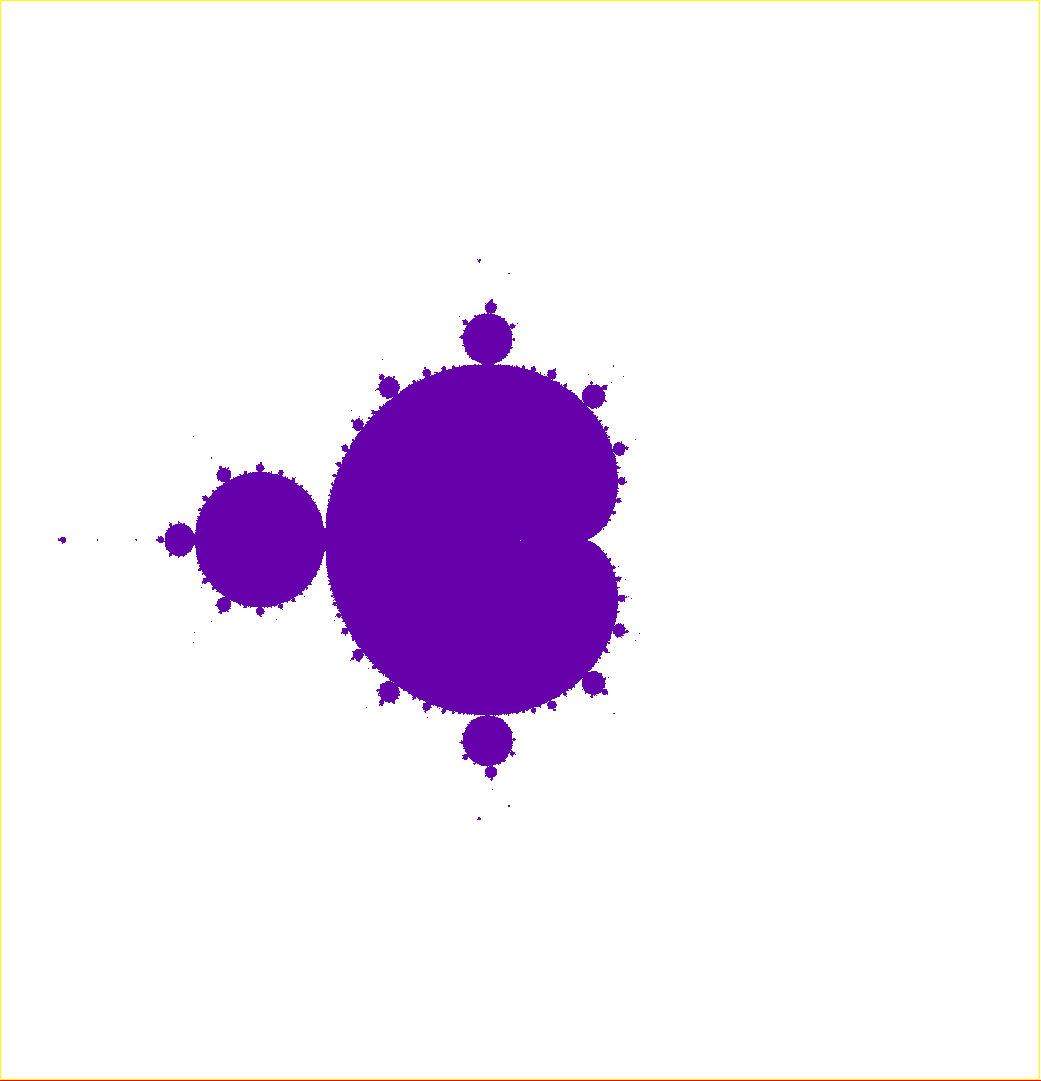
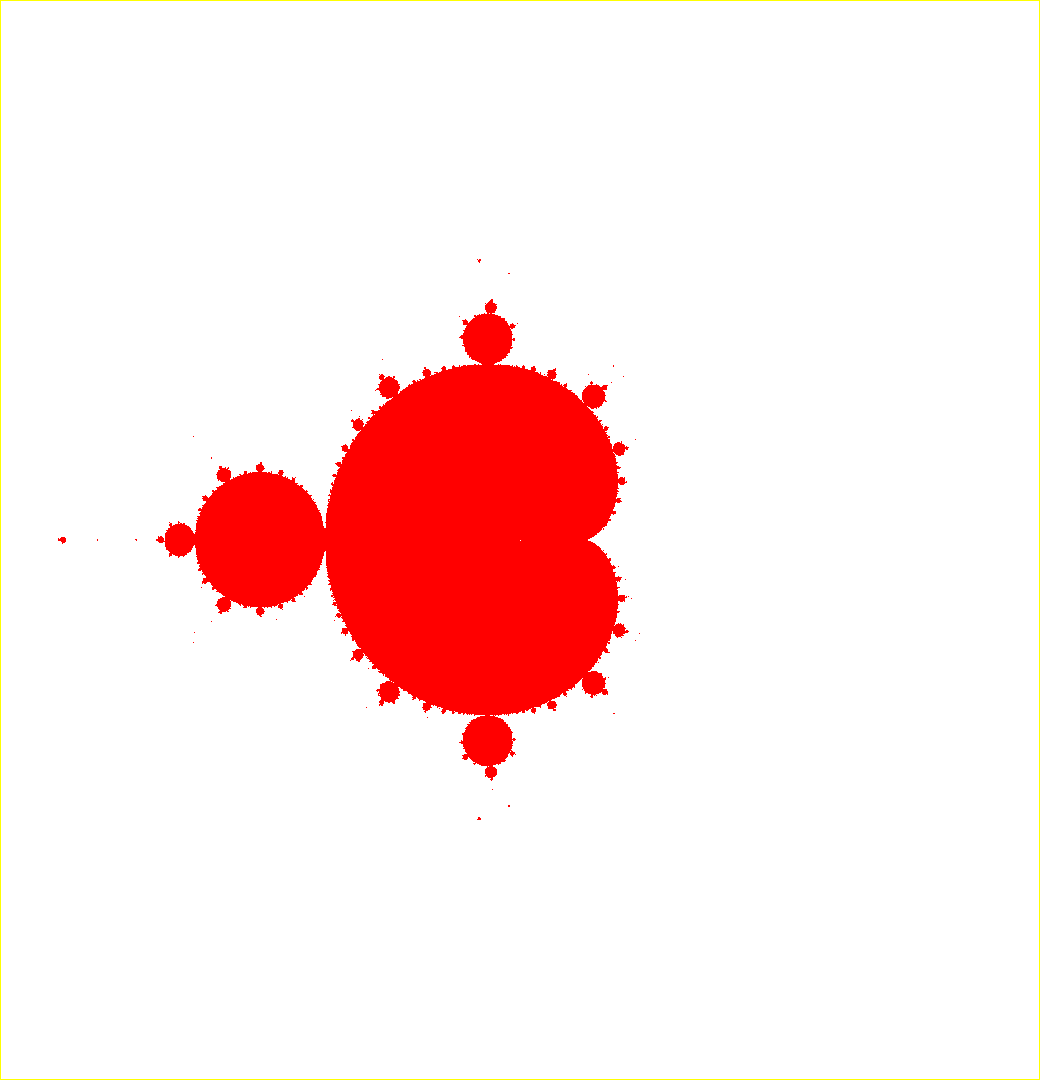
A single thread generates the colors that the pixels in some range should have. The image is represented as a two-dimensional array of colors.

Changed region(s): [[0.1537, 0.2747, 0.6148, 0.7327]]

diff --git a/src/net/yaht/pf/MThread.java b/src/net/yaht/pf/MThread.java
@@ -1,0 +1,145 @@
+package net.yaht.pf;
+import java.awt.Color;
+import java.awt.Graphics2D;
+import java.awt.image.BufferedImage;
+import java.io.PrintWriter;
+
+import org.apache.commons.math3.complex.Complex;
+
+public class MThread implements Runnable{
+
+	Color[][] imageAsColorArray;
+	int startPosition;
+	int length;
+	static int widthOfImage;
+	static int heightOfImage;
+	static double precision;
+	static double range;
+	
+	public MThread(Color[][] initialImageAsColorArray, int initialStartPosition, int initialLength,
+			int initialWidthOfImage, int initialHeightOfImage, double initialPrecision, double initialRange) {
+		this.imageAsColorArray = initialImageAsColorArray;
+		this.startPosition = initialStartPosition;
+		this.length = initialLength;
+		this.widthOfImage = initialWidthOfImage;
+		this.heightOfImage = initialHeightOfImage;
+		this.precision = initialPrecision;
+		this.range = initialRange;
+	} 
+	
+	public static int z_check(Complex c) {
+		
+		Complex z0 = new Complex(0.0, 0.0);
+
+		Complex z_prev = z0;
+		Complex z_i = null;
+		int steps = 0;
+		Double d = null;
+		
+		for(int i = 0; i < 640; i++) {
+			
+			z_i = z_prev.multiply(z_prev).add(c);
+			z_prev = z_i;
+			
+			d = new Double(z_prev.getReal());
+			
+			if (d.isInfinite() || d.isNaN()) {
+				steps = i;
+				break;
+			}
+		}
+
+		return steps;
+	}
+	
+	public void calculateColorOfPixels() {
+		int height = heightOfImage;
+		int width = widthOfImage;
+		
+		double ty = 1.0/(height * precision);
+
+		PrintWriter out = new PrintWriter(System.out);
+		
+		for (int i = 0; i < (int) (height * precision); i++) {
+			
+			double py = range - 4.0 * ty;
+			int py_scr = (int) (Math.abs((py - range)) * ((height - 1) / (2 * range)));
+			double tx = 1.0/(width * precision);
+			
+			for (int j = 0; j < (int) (width * precision); j++) {
+				
+				double px = -range + 4.0 * tx;
+				int px_scr = (int) ((px + range) * (width / 4.0));
+				int r = z_check(new Complex(px, py));
+
+				if (r == 0) {
+					this.imageAsColorArray[px_scr][py_scr] = Color.RED;
+					//bi.setRGB(px_scr, py_scr, 0x6600aa);
+				} else {
+					this.imageAsColorArray[px_scr][py_scr] = Color.WHITE;
+					//bi.setRGB(px_scr, py_scr, 0xffffff);
+				}
+				
+				// color
+/*				if (r == 0) { // inside ...
+					bi.setRGB(px_scr, py_scr, 0x00ff00);
+				} else if (r <= 10) { // outside ... (rapid move)
+					bi.setRGB(px_scr, py_scr, 0xFFFFFF);
+					
+				// close to inside cases ...
+				// } else if (10 < r && r <= 50) {
+				// bi.setRGB(px_scr, py_scr, 0x0033EE);
+				} else if (r == 11) {
+					bi.setRGB(px_scr, py_scr, 0x0000ff);
+				} else if (r == 12) {
+					bi.setRGB(px_scr, py_scr, 0x0000ee);
+				} else if (r == 13) {
+					bi.setRGB(px_scr, py_scr, 0x0000dd);
+				} else if (r == 14) {
+					bi.setRGB(px_scr, py_scr, 0x0000cc);
+				} else if (r == 15) {
+					bi.setRGB(px_scr, py_scr, 0x0000bb);
+				} else if (r == 16) {
+					bi.setRGB(px_scr, py_scr, 0x0000aa);
+				} else if (r == 17) {
+					bi.setRGB(px_scr, py_scr, 0x000099);
+				} else if (r == 18) {
+					bi.setRGB(px_scr, py_scr, 0x000088);
+				} else if (r == 19) {
+					bi.setRGB(px_scr, py_scr, 0x000077);
+				} else if (r == 20) {
+					bi.setRGB(px_scr, py_scr, 0x000066);
+				} else if (20 < r && r <= 30) {
+					bi.setRGB(px_scr, py_scr, 0x666600);
+				} else if (30 < r && r <= 40) {
+					bi.setRGB(px_scr, py_scr, 0x777700);
+				} else if (40 < r && r <= 50) {
+					bi.setRGB(px_scr, py_scr, 0x888800);
+				} else if (50 < r && r <= 100) {
+					bi.setRGB(px_scr, py_scr, 0x999900);
+				} else if (100 < r && r <= 150) {
+					bi.setRGB(px_scr, py_scr, 0xaaaa00);
+				} else if (150 < r && r <= 150) {
+					bi.setRGB(px_scr, py_scr, 0xbbbb00);
+				} else if (200 < r && r <= 150) {
+					bi.setRGB(px_scr, py_scr, 0xcccc00);
+				} else if (350 < r && r <= 300) {
+					bi.setRGB(px_scr, py_scr, 0xdddd00);
+				} else {
+					bi.setRGB(px_scr, py_scr, 0xeeee00);
+				}
+*/
+				tx += 1.0/(width * precision);
+				
+			}
+			
+			ty += 1.0/(height * precision);
+			
+		}
+	}
+	
+	public void run() {
+		this.calculateColorOfPixels();
+	}
+
+}

diff --git a/src/net/yaht/pf/RunMe.java b/src/net/yaht/pf/RunMe.java
@@ -8,44 +8,12 @@ import java.awt.image.BufferedImage;
 import java.io.File;
 import java.io.IOException;
 import java.io.PrintWriter;
-
 import javax.imageio.ImageIO;
-
 import org.apache.commons.math3.complex.Complex;
 
 public class RunMe {
 
-	public static int z_check(Complex c) {
-		
-		Complex z0 = new Complex(0.0, 0.0);
-
-		Complex z_prev = z0;
-		Complex z_i = null;
-		int steps = 0;
-		Double d = null;
-		
-		for(int i = 0; i < 640; i++) {
-			
-			z_i = z_prev.multiply(z_prev).add(c);
-			z_prev = z_i;
-			
-			d = new Double(z_prev.getReal());
-			
-			if (d.isInfinite() || d.isNaN()) {
-				
-				steps = i;
-				break;
-				
-			}
-			
-		}
-		
-		// System.out.println("s: " + steps + ", " + z_i.getReal() + ", " + z_i.getImaginary());
-		// return (steps == 0);
-
-		return steps;
-		
-	}
+	
 	
 	public static void main(String[] args) {
 
@@ -58,10 +26,29 @@ public class RunMe {
 		Graphics2D g2d = bi.createGraphics();
 		g2d.setColor(Color.RED);
 		g2d.fillRect(0, 0, width, height);
-		
-		double ty = 1.0/(height * precision);
 
 		PrintWriter out = new PrintWriter(System.out);
+		
+		Color[][] imageAsColorArray = new Color[width][height];
+		
+		MThread test = new MThread(imageAsColorArray, 0, width*height, width, height, precision, range);
+		test.run();
+		
+		for (int row=0; row<height; row++) {
+			for (int col=0; col<width; col++) {
+				int color;
+				if (imageAsColorArray[col][row] == Color.RED) {
+					color = 0xff0000;
+				} else {
+					color = 0xffffff;
+				}
+				
+				bi.setRGB(col, row, color);
+			}
+		}
+		
+		/*double ty = 1.0/(height * precision);
+
 		
 		for (int i = 0; i < (int) (height * precision); i++) {
 			
@@ -131,14 +118,14 @@ public class RunMe {
 				} else {
 					bi.setRGB(px_scr, py_scr, 0xeeee00);
 				}
-*/
+
 				tx += 1.0/(width * precision);
 				
 			}
 			
 			ty += 1.0/(height * precision);
 			
-		}
+		}*/
 
 		bi.setRGB(width/2, height/2, 0xffffff);
 		
